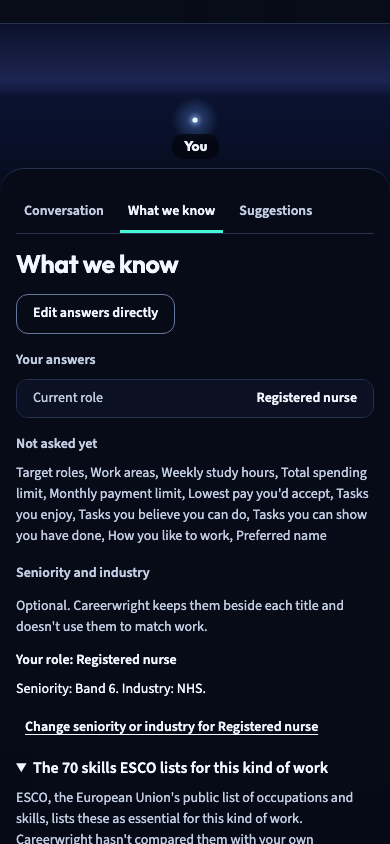
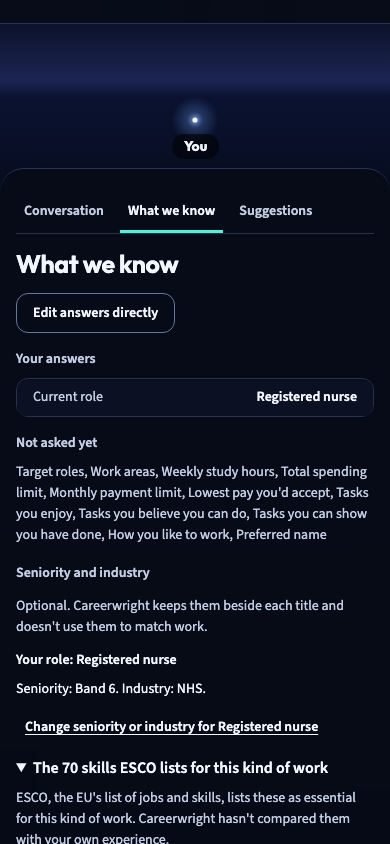
Design reference and review captures for the shorter ESCO naming: the suggestions' header, the slate shots and the title details at 1440x900, 768x1024 and 390x844 (Task 6d slice C)

diff --git a/docs/design/compositions/world.js b/docs/design/compositions/world.js
@@ -702,7 +702,7 @@
         let n = 0;
         return atConsole(`
           <h2 class="sentence">Directions to explore</h2>
-          <p class="small muted">Occupations from ESCO, found from your own answers. Ideas to test, not a judgement of fit: no score or percentage.</p>
+          <p class="small muted">Occupations from ESCO, the EU's list of jobs and skills, found from your answers. Ideas to test, not a judgement of fit.</p>
           <div class="segmented" role="group" aria-label="Which directions to show">${["Balanced", "Closer to what I do", "Less familiar", "Broader", "More depth"].map((e, i) => `<button type="button" class="btn btn-secondary" aria-pressed="${i === 0}">${e}</button>`).join("")}</div>
           <p class="small muted">6 of up to 6, from 31 occupations found by 1 search of ESCO. 17 more were found but not kept.</p>
           <details class="notes"><summary>How Careerwright searched (${NOTES.length} notes)</summary><ul class="bullets">${NOTES.map((t) => `<li>${esc(t)}</li>`).join("")}</ul></details>
